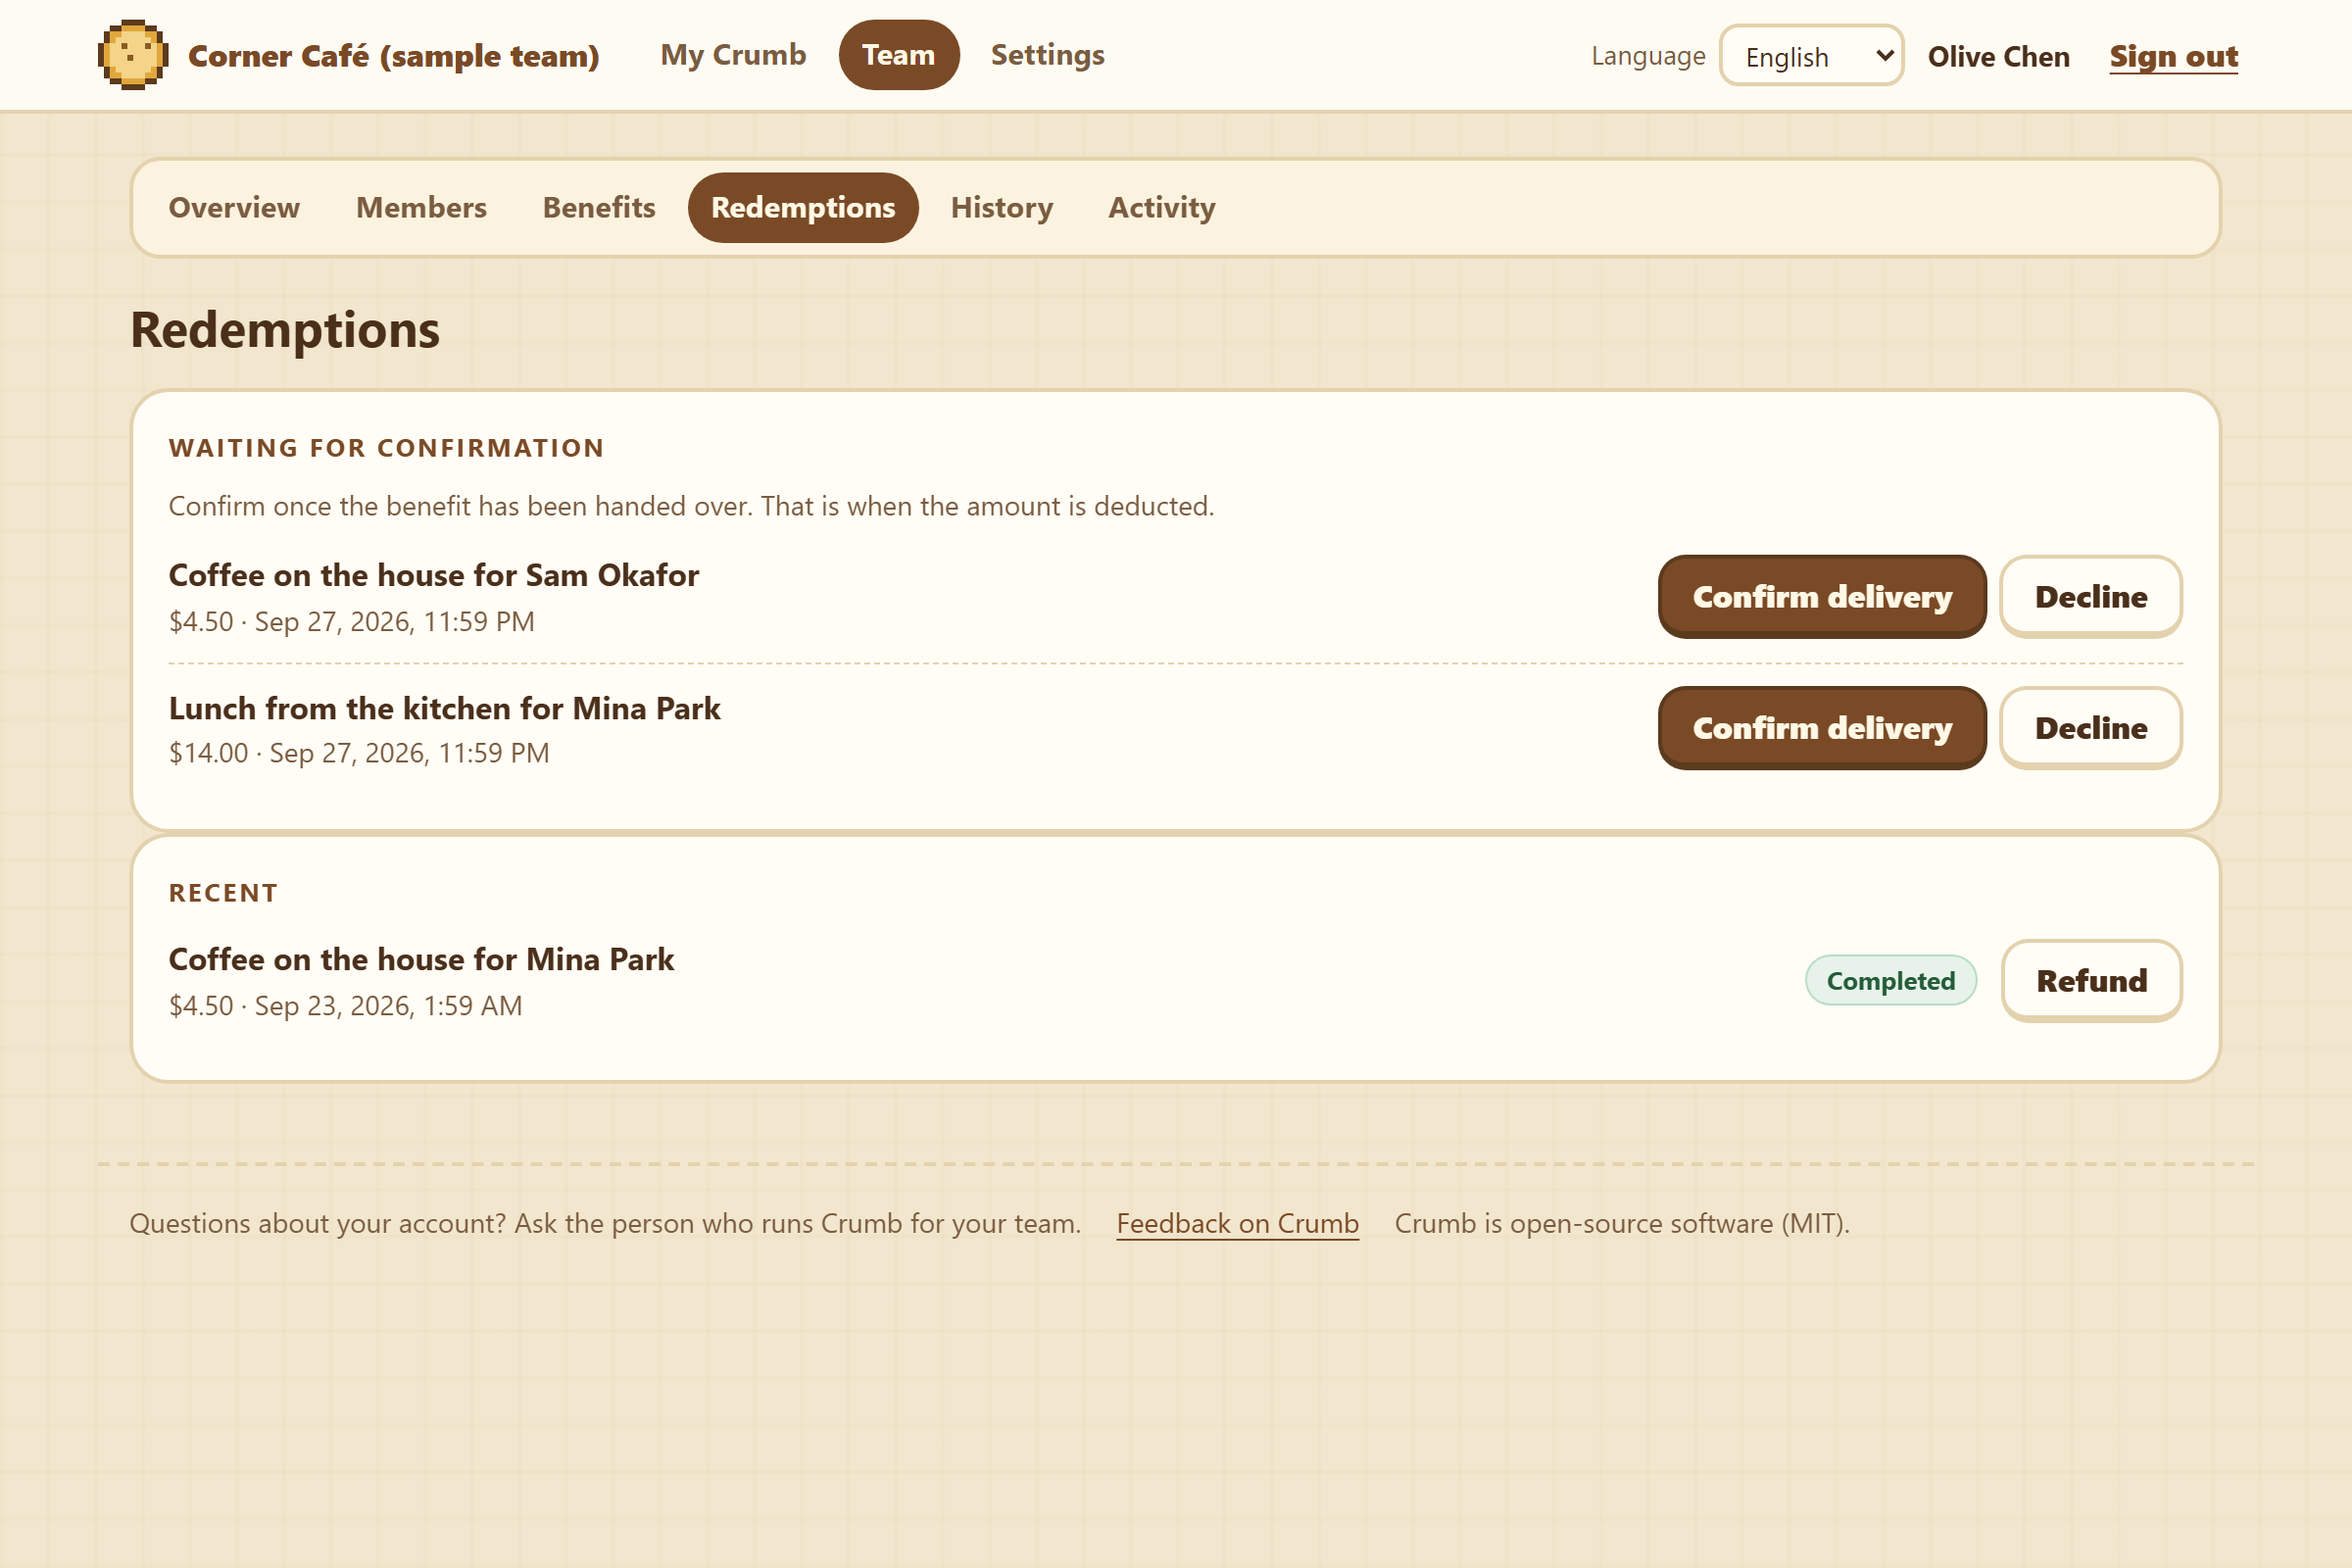
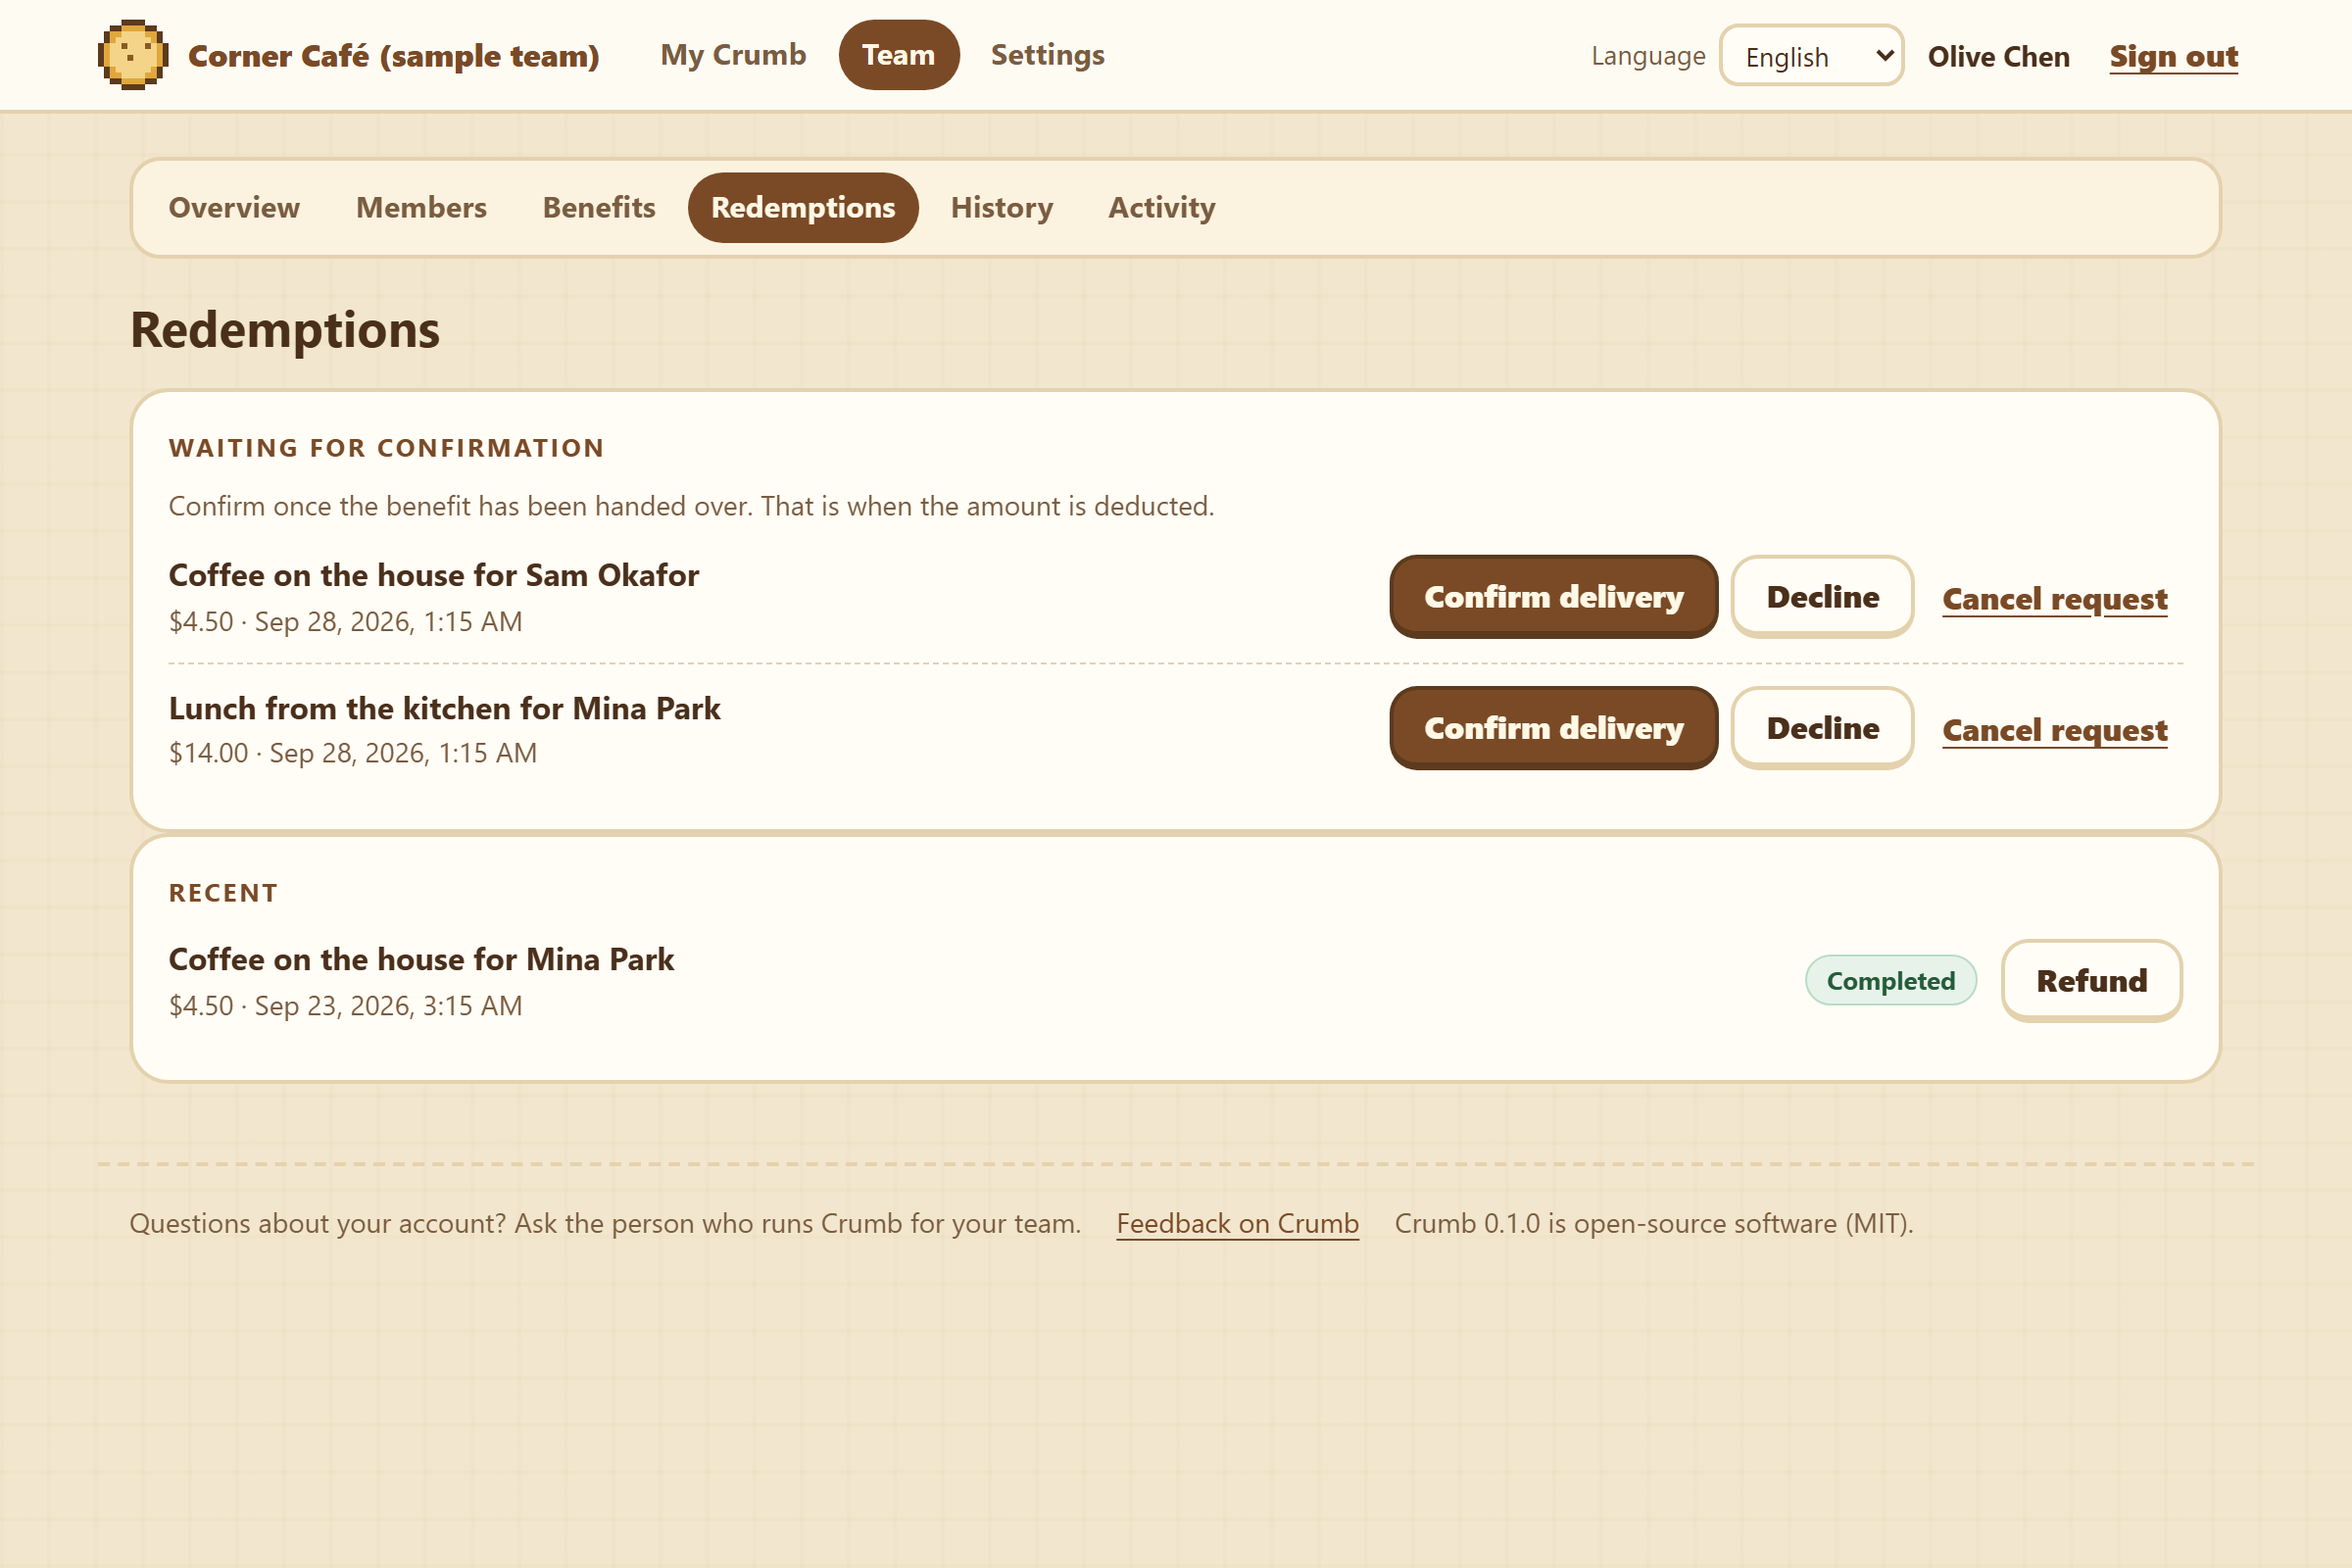
docs: refresh README screenshots for the new request actions

diff --git a/README.zh-CN.md b/README.zh-CN.md
@@ -45,7 +45,7 @@ Olive 点了确认，这 14 加元才正式扣除。
 
 ……并在福利实际交付之后再确认，这时才扣除数额；拒绝或取消只会释放暂扣。
 
-<img src="assets/screenshots/redemptions.png" width="100%" alt="兑换页面（界面为英文）：两条等待确认的申请带有“确认交付”和“拒绝”按钮，一条已完成的申请带有“退回”按钮">
+<img src="assets/screenshots/redemptions.png" width="100%" alt="兑换页面（界面为英文）：两条等待确认的申请，各带“确认交付”“拒绝”和“取消申请”按钮，一条已完成的申请带有“退回”按钮">
 
 他们还可以用一次性链接邀请成员、重置密码、停用账户、维护福利目录、更正错误
 （撤销必须写原因，并且保留可见、标记为已撤销）、导出账本、查看操作日志。

diff --git a/README.md b/README.md
@@ -52,7 +52,7 @@ account — there are no leaderboards and no comparisons.
 …and confirm benefits once they have actually been handed over. That is when the amount is
 deducted; declining or cancelling simply releases it.
 
-<img src="assets/screenshots/redemptions.png" width="100%" alt="The Redemptions page: two requests waiting with Confirm delivery and Decline buttons, and a completed request with a Refund button">
+<img src="assets/screenshots/redemptions.png" width="100%" alt="The Redemptions page: two requests waiting, each with Confirm delivery, Decline and Cancel request, and a completed request with a Refund button">
 
 They also invite people with one-time links, reset passwords, deactivate accounts, keep the
 benefits catalog, correct mistakes (a revoke needs a reason and stays visible, marked
